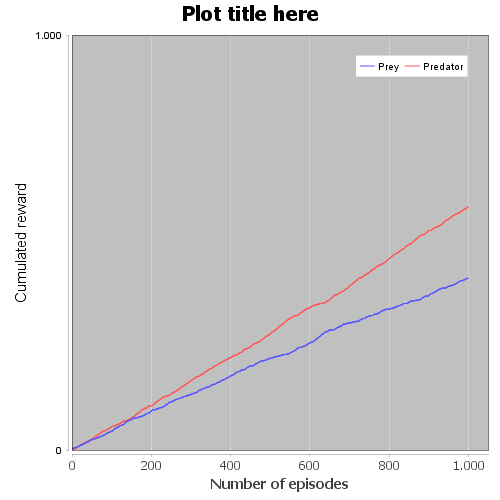
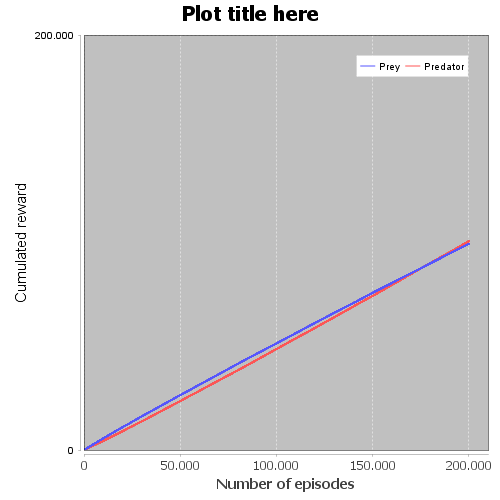
prey different parameters possible than predators

diff --git a/src/Assignment3/PredatorPrey.java b/src/Assignment3/PredatorPrey.java
@@ -8,9 +8,9 @@ public class PredatorPrey {
 
 	public static void main( String[] args ) throws IOException {
 		//Algorithm to run
-		//String algorithm = "Qlearning";
+		String algorithm = "Qlearning";
 		//String algorithm = "Minimax";
-		String algorithm = "Sarsa";
+		//String algorithm = "Sarsa";
 		
 		double[] empty = {};
 
@@ -23,7 +23,7 @@ public class PredatorPrey {
 		//Independent Q-learning parameters
 		boolean loopTemperature = false;
 		double[] temperature = {0.5, 5, 50, 500};
-		boolean greedy = false;
+		boolean greedy = true;
 		boolean loopEpsilon = false;
 		double[] epsilon = {0.1, 0.2, 0.3, 0.4, 0.5, 0.6, 0.7, 0.8, 0.9};
 
@@ -66,14 +66,18 @@ public class PredatorPrey {
 		List<double[]> plotData = new ArrayList<double[]>();
 		//Standard parameter values
 		double alpha = 0.1;
-		double initialQvalues = 1.0;
+		double alphaPrey = 0.1;
+		double initialQvalues = 15.0;
 		double initialV = 1.0;
 		double explore = 0.2;
 		double discountFactor = 0.8; 
+		double discountFactorPrey = 0.8;
 		double epsilon = 0.1;
+		double epsilonPrey = 0.1;
 		double temperature = 0.5;
-		int nEpisodes = 1000;
-		int nPreds = 2;
+		double temperaturePrey = 0.5;
+		int nEpisodes = 200000;
+		int nPreds = 3;
 		boolean randomInitState = false;
 		
 		String plotTitle = "Plot title here";
@@ -91,6 +95,7 @@ public class PredatorPrey {
 
 		//Checken welke data uit welke index komt van plotData
 		switch( variableName ){
+		/*
 		case "Explore":
 			for( int i = 0; i < varValues.length; i++ ){
 				Game game = new Game( nPreds );
@@ -187,8 +192,8 @@ public class PredatorPrey {
 			if( algorithm.equals("Sarsa")){
 				for( int i = 0; i < varValues.length; i++ ){
 					Game game = new Game( nPreds );
-					plotData = game.Sarsa(alpha, varValues[i], nEpisodes, greedy,
-							initialQvalues, epsilon, temperature, randomInitState);
+					plotData = game.Sarsa(alpha, alphaPrey, discountFactor, discountFactorPrey, nEpisodes, greedy,
+							initialQvalues, epsilon, epsilonPrey, temperature, temperaturePrey, randomInitState);
 					plot.add_data_series(plotData.get(0), plotData.get(1), "Predator");
 					plot.add_data_series(plotData.get(0), plotData.get(2), "Prey");
 					plot.export_image(fileName, imageWidth, imageHeight, nEpisodes,  yAxisRange, yAxisTicks);
@@ -197,8 +202,8 @@ public class PredatorPrey {
 			else if( algorithm.equals("Qlearning")){
 				for( int i = 0; i < varValues.length; i++ ){
 					Game game = new Game( nPreds );
-					plotData = game.qlearning( alpha, varValues[i], nEpisodes, greedy,
-							initialQvalues, epsilon, temperature, randomInitState);
+					plotData = game.qlearning( alpha, alphaPrey, discountFactor, discountFactorPrey, nEpisodes, greedy,
+							initialQvalues, epsilon, epsilonPrey, temperature, temperaturePrey, randomInitState);
 					plot.add_data_series(plotData.get(0), plotData.get(1), "Predator");
 					plot.add_data_series(plotData.get(0), plotData.get(2), "Prey");
 					plot.export_image(fileName, imageWidth, imageHeight, nEpisodes,  yAxisRange, yAxisTicks);
@@ -218,8 +223,8 @@ public class PredatorPrey {
 			if( algorithm.equals("Sarsa")){
 				for( int i = 0; i < varValues.length; i++ ){
 					Game game = new Game( nPreds );
-					plotData = game.Sarsa( alpha, discountFactor, nEpisodes, greedy,
-							varValues[i], epsilon, temperature, randomInitState);
+					plotData = game.Sarsa( alpha, alphaPrey, discountFactor, discountFactorPrey, nEpisodes, greedy,
+							initialQvalues, epsilon, epsilonPrey, temperature, temperaturePrey, randomInitState);
 					plot.add_data_series(plotData.get(0), plotData.get(1), "Predator");
 					plot.add_data_series(plotData.get(0), plotData.get(2), "Prey");
 					plot.export_image(fileName, imageWidth, imageHeight, nEpisodes,  yAxisRange, yAxisTicks);
@@ -228,8 +233,8 @@ public class PredatorPrey {
 			else if( algorithm.equals("Qlearning")){
 				for( int i = 0; i < varValues.length; i++ ){
 					Game game = new Game( nPreds );
-					plotData = game.qlearning( alpha, discountFactor, nEpisodes, greedy,
-							varValues[i], epsilon, temperature, randomInitState);
+					plotData = game.qlearning( alpha, alphaPrey, discountFactor, discountFactorPrey, nEpisodes, greedy,
+							initialQvalues, epsilon, epsilonPrey, temperature, temperaturePrey, randomInitState);
 					plot.add_data_series(plotData.get(0), plotData.get(1), "Predator");
 					plot.add_data_series(plotData.get(0), plotData.get(2), "Prey");
 					plot.export_image(fileName, imageWidth, imageHeight, nEpisodes,  yAxisRange, yAxisTicks);
@@ -244,12 +249,12 @@ public class PredatorPrey {
 					plot.add_data_series(plotData.get(0), plotData.get(2), "Prey");
 					plot.export_image(fileName, imageWidth, imageHeight, nEpisodes,  yAxisRange, yAxisTicks);
 				}
-			}
+			}*/
 		case "Standard":
 			if( algorithm.equals("Sarsa")){
 					Game game = new Game( nPreds );
-					plotData = game.Sarsa( alpha, discountFactor, nEpisodes, greedy,
-							initialQvalues, epsilon, temperature, randomInitState);
+					plotData = game.Sarsa( alpha, alphaPrey, discountFactor, discountFactorPrey, nEpisodes, greedy,
+							initialQvalues, epsilon, epsilonPrey, temperature, temperaturePrey, randomInitState);
 					//plot.add_data_series(plotData.get(0), plotData.get(1), "Predator");
 					//plot.add_data_series(plotData.get(0), plotData.get(2), "Prey");
 					plot.add_data_series(plotData.get(0), plotData.get(3), labelLine1);
@@ -258,8 +263,8 @@ public class PredatorPrey {
 			}
 			else if( algorithm.equals("Qlearning")){
 					Game game = new Game( nPreds );
-					plotData = game.qlearning( alpha, discountFactor, nEpisodes, greedy,
-							initialQvalues, epsilon, temperature, randomInitState);
+					plotData = game.qlearning( alpha, alphaPrey, discountFactor, discountFactorPrey, nEpisodes, greedy,
+							initialQvalues, epsilon, epsilonPrey, temperature, temperaturePrey, randomInitState);
 					//plot.add_data_series(plotData.get(0), plotData.get(1), "Predator");
 					//plot.add_data_series(plotData.get(0), plotData.get(2), "Prey");
 					plot.add_data_series(plotData.get(0), plotData.get(3), labelLine1);
@@ -273,8 +278,7 @@ public class PredatorPrey {
 					plot.add_data_series(plotData.get(0), plotData.get(1), "Predator");
 					plot.add_data_series(plotData.get(0), plotData.get(2), "Prey");
 					plot.export_image(fileName, imageWidth, imageHeight, nEpisodes,  yAxisRange, yAxisTicks);
-			}
-			
+			}	
 		}
 	}
 }

diff --git a/src/Assignment3/Game.java b/src/Assignment3/Game.java
@@ -464,8 +464,8 @@ public class Game {
 	}
 	
 	// Function implementing the Sarsa algorithm
-		public List<double[]> Sarsa( double alpha, double discountFactor, int nEpisodes, 
-				boolean greedy, double initQval, double epsilon, double temperature, boolean randomInitState ){
+		public List<double[]> Sarsa(double alpha, double alphaPrey, double discountFactor, double discountFactorPrey, int nEpisodes, boolean greedy,
+				double initQval, double epsilon, double epsilonPrey, double temperature, double temperaturePrey, boolean randomInitState){
 			List<double[]> data = new ArrayList<double[]>();
 			double[] epCount = new double[nEpisodes];
 			double[] preyRew = new double[nEpisodes];
@@ -504,9 +504,9 @@ public class Game {
 				List<Point> actions = new ArrayList<Point>();
 				Point actionPrey;
 				if( greedy ){
-					actionPrey = getActionGreedyPrey(epsilon, state, QvalPrey);
+					actionPrey = getActionGreedyPrey(epsilonPrey, state, QvalPrey);
 				} else{
-					actionPrey = getActionSoftmaxPrey(temperature, state, QvalPrey);
+					actionPrey = getActionSoftmaxPrey(temperaturePrey, state, QvalPrey);
 				}
 				for( int a = 0; a < numPreds; a++ ){
 					Point action = new Point(7,7);
@@ -557,9 +557,9 @@ public class Game {
 					List<Point> actionsP = new ArrayList<Point>();
 					Point actionPreyP; 
 					if( greedy ){
-						actionPreyP = getActionGreedyPrey(epsilon, state, QvalPrey);
+						actionPreyP = getActionGreedyPrey(epsilonPrey, state, QvalPrey);
 					} else{
-						actionPreyP = getActionSoftmaxPrey(temperature, state, QvalPrey);
+						actionPreyP = getActionSoftmaxPrey(temperaturePrey, state, QvalPrey);
 					}
 					for( int a = 0; a < numPreds; a++ ){
 						Point action = new Point(7,7);
@@ -578,8 +578,8 @@ public class Game {
 						QvalList.get(a)[stateIndex.get(state.toString())][pred.possMoves.indexOf(actions.get(a))] = newQval;
 					}
 					// Compute Q-value for current state-action s,a for prey
-					double newQvalPrey = computeQvalueSarsa(state, actionPrey, alpha, 
-							discountFactor, sPrime, actionPreyP, rewardPrey, QvalPrey );
+					double newQvalPrey = computeQvalueSarsa(state, actionPrey, alphaPrey, 
+							discountFactorPrey, sPrime, actionPreyP, rewardPrey, QvalPrey );
 					QvalPrey[stateIndex.get(state.toString())][prey.possMoves.indexOf(actionPrey)] = newQvalPrey;
 					
 					// State = State'
@@ -646,8 +646,8 @@ public class Game {
 	}
 
 	// Function implementing the Q-learning algorithm
-	public List<double[]> qlearning(double alpha, double discountFactor, int nEpisodes, boolean greedy,
-			double initQval, double epsilon, double temperature, boolean randomInitState){
+	public List<double[]> qlearning(double alpha, double alphaPrey, double discountFactor, double discountFactorPrey, int nEpisodes, boolean greedy,
+			double initQval, double epsilon, double epsilonPrey, double temperature, double temperaturePrey, boolean randomInitState){
 		List<double[]> data = new ArrayList<double[]>();
 		double[] epCount = new double[nEpisodes];
 		double[] preyRew = new double[nEpisodes];
@@ -689,9 +689,9 @@ public class Game {
 				List<Point> actions = new ArrayList<Point>();
 				Point actionPrey;
 				if( greedy ){
-					actionPrey = getActionGreedyPrey(epsilon, state, QvalPrey);
+					actionPrey = getActionGreedyPrey(epsilonPrey, state, QvalPrey);
 				} else{
-					actionPrey = getActionSoftmaxPrey(temperature, state, QvalPrey);
+					actionPrey = getActionSoftmaxPrey(temperaturePrey, state, QvalPrey);
 				}
 				List<Point> sPrime = new ArrayList<Point>();
 				for( int a = 0; a < numPreds; a++ ){
@@ -740,8 +740,8 @@ public class Game {
 					QvalList.get(a)[stateIndex.get(state.toString())][pred.possMoves.indexOf(actions.get(a))] = newQval;
 				}
 				// Compute Q-value for current state-action s,a for prey
-				double newQvalPrey = computeQvalueQL(state, actionPrey, alpha, 
-						discountFactor, sPrime, rewardPrey, QvalPrey );
+				double newQvalPrey = computeQvalueQL(state, actionPrey, alphaPrey, 
+						discountFactorPrey, sPrime, rewardPrey, QvalPrey );
 				QvalPrey[stateIndex.get(state.toString())][prey.possMoves.indexOf(actionPrey)] = newQvalPrey;
 				
 				// State = State'

diff --git a/src/Assignment3/test.java b/src/Assignment3/test.java
@@ -8,6 +8,7 @@ import java.util.List;
 public class test {
 
 	public static void main(String[] args) {
+		/*
 		double alpha = 0.1;
 		double discountFactor = 0.8;
 		int nEpisodes = 1;
@@ -21,6 +22,7 @@ public class test {
 		//game.initQvaluesMA(-1, 3);
 		//game.qlearning(alpha, discountFactor, nEpisodes, greedy, initQval, epsilon, temperature);
 		game.Sarsa(alpha, discountFactor, nEpisodes, greedy, initQval, epsilon, temperature, randomInitState);
+		*/
 		//game.initQvaluesMA(-1, 3);
 	//	System.out.println(game.statesArray.size());
 		
